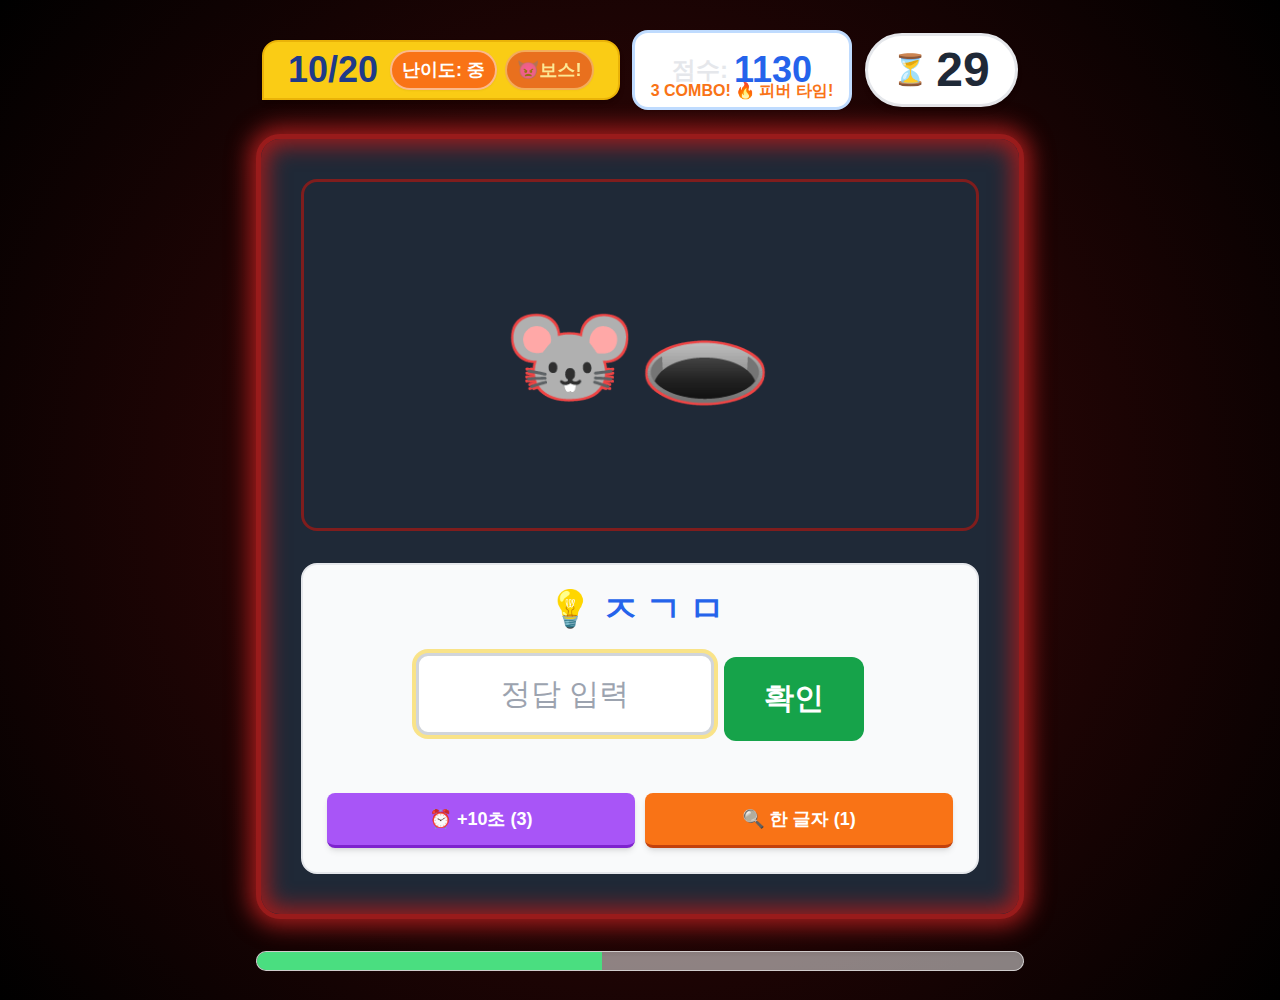
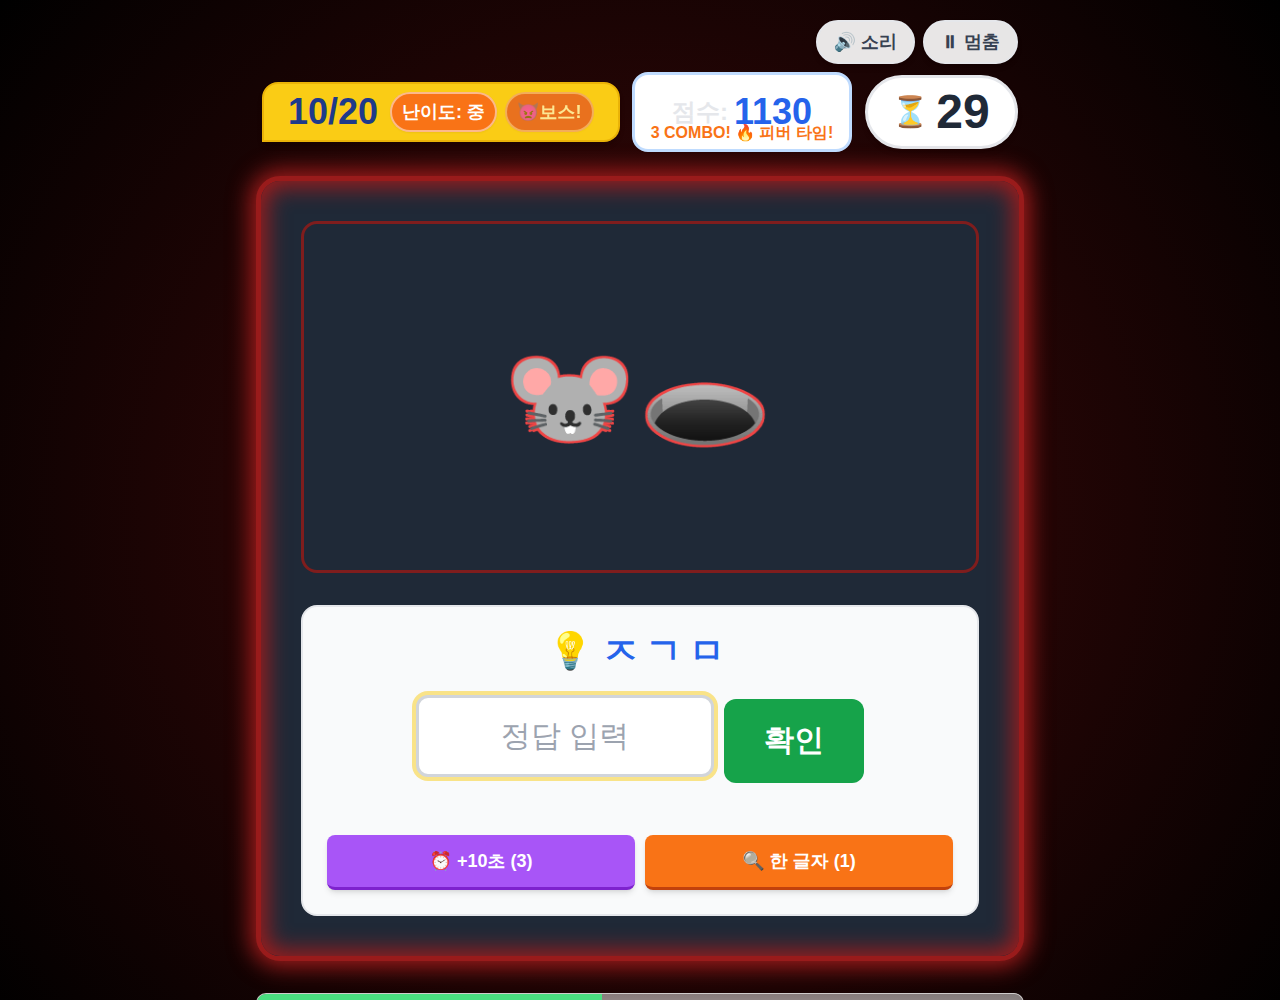
캐치 10: 일시정지와 소리 끄기 단추 추가
- 게임 화면 오른쪽 위에 ⏸ 멈춤 · 🔊 소리 단추
- 멈추면 시간이 서고 그림·힌트를 가림, 멈춘 동안 정답·아이템 입력 막음, 멈춘 시간은 문제 시간·소요시간에서 뺌
- Esc로 멈춤·계속, 멈춤 화면에서 Enter로 계속, 다른 창으로 가면 저절로 멈춤
- 소리 끄기는 다음에 열어도 기억
- 소개글·스크린샷·교실 TV 안내판을 새 단추에 맞춰 다시 만듦

Claude-Session: https://claude.ai/code/session_011cWCpwYSnSw2Evopy17yxA

Changed region(s): [[0.1875, 0.527, 0.8125, 1.0], [0.1875, 0.0, 0.8125, 0.217], [0.375, 0.31, 0.5938, 0.465]]

diff --git a/catch10.html b/catch10.html
@@ -203,6 +203,11 @@
 
     <!-- 게임 화면 -->
     <div id="game-screen" class="screen flex-col items-center w-full max-w-3xl">
+        <!-- ⏸ 일시정지 · 🔊 소리 -->
+        <div class="w-full flex justify-end gap-2 mb-2 px-1.5">
+            <button id="btn-sound" type="button" onclick="toggleSound()" title="소리 켜기·끄기" class="bg-white/90 hover:bg-white text-gray-700 text-base sm:text-lg font-bold px-3 sm:px-4 py-1.5 rounded-full shadow-md border-2 border-gray-200 active:translate-y-0.5 transition-all">🔊 소리</button>
+            <button id="btn-pause" type="button" onclick="togglePause()" title="일시정지 (Esc)" class="bg-white/90 hover:bg-white text-gray-700 text-base sm:text-lg font-bold px-3 sm:px-4 py-1.5 rounded-full shadow-md border-2 border-gray-200 active:translate-y-0.5 transition-all">⏸ 멈춤</button>
+        </div>
         
         <div class="w-full flex justify-between items-center mb-4 sm:mb-6 px-1.5 gap-1.5 sm:gap-3">
             <div id="top-badge-container" class="bg-yellow-400 text-blue-900 text-lg sm:text-2xl md:text-4xl px-3 sm:px-6 py-2 rounded-t-2xl rounded-br-2xl shadow-md border-2 border-yellow-500 flex flex-col sm:flex-row items-center justify-center flex-1 sm:flex-none transition-colors duration-300">
@@ -262,6 +267,17 @@
         
         <div class="w-full max-w-3xl mt-5 sm:mt-8 bg-white/50 rounded-full h-3 sm:h-5 shadow-inner overflow-hidden border border-white/60">
             <div id="progress-bar" class="bg-green-400 h-full w-0 transition-all duration-300"></div>
+        </div>
+    </div>
+
+    <!-- 일시정지 화면 -->
+    <div id="pause-overlay" class="hidden flex items-center justify-center p-5" style="position:fixed; inset:0; z-index:9999; background:rgba(17,24,39,0.96);">
+        <div class="bg-white rounded-3xl shadow-2xl p-8 sm:p-10 text-center border-[5px] border-blue-400 w-full max-w-md">
+            <div class="text-6xl sm:text-7xl mb-3">⏸</div>
+            <h2 class="text-3xl sm:text-4xl text-blue-600 font-bold mb-2">잠깐 멈춤</h2>
+            <p class="text-gray-500 text-base sm:text-lg mb-6">시간이 멈췄어요. 준비되면 계속해요!</p>
+            <button type="button" id="btn-resume" onclick="togglePause()" class="w-full bg-blue-500 hover:bg-blue-600 text-white text-2xl sm:text-3xl py-4 rounded-2xl shadow-[0_6px_0_#2563eb] hover:translate-y-1 transition-all font-bold mb-3">▶ 계속하기</button>
+            <button type="button" onclick="toggleSound()" id="btn-sound-pause" class="w-full bg-gray-100 hover:bg-gray-200 text-gray-700 text-lg sm:text-xl py-3 rounded-2xl border-2 border-gray-200 font-bold">🔊 소리 켜짐</button>
         </div>
     </div>
 
@@ -377,6 +393,11 @@
         let goldenCorrectCount = 0;
         let speedKillCount = 0;
 
+        let isPaused = false;
+        let pauseStartedAt = 0;
+        let isMuted = false;
+        try { isMuted = localStorage.getItem('catchmindMute10') === '1'; } catch(e) {}
+
         let bestScore = localStorage.getItem('catchmindBestScore10') || 0;
         document.getElementById('best-score-display').innerText = bestScore;
 
@@ -404,18 +425,22 @@
                 }
             },
             playCorrect: function() {
+                if(isMuted || !this.correct) return;
                 if(Tone.context.state !== 'running') Tone.context.resume();
                 this.correct.triggerAttackRelease(["C5", "E5", "G5", "C6"], "8n");
             },
             playWrong: function() {
+                if(isMuted || !this.correct) return;
                 if(Tone.context.state !== 'running') Tone.context.resume();
                 this.wrong.triggerAttackRelease("C3", "16n");
             },
             playTick: function() {
+                if(isMuted || !this.correct) return;
                 if(Tone.context.state !== 'running') Tone.context.resume();
                 this.tick.triggerAttackRelease("C2", "32n");
             },
             playBoss: function() {
+                if(isMuted || !this.correct) return;
                 if(Tone.context.state !== 'running') Tone.context.resume();
                 this.boss.triggerAttackRelease("C2", "1n");
             }
@@ -552,6 +577,9 @@
             document.getElementById('btn-item-hint').classList.remove('opacity-50', 'cursor-not-allowed');
 
             elements.achievementsContainer.innerHTML = ''; 
+            isPaused = false;
+            document.getElementById('pause-overlay').classList.add('hidden');
+            document.getElementById('btn-pause').innerText = '⏸ 멈춤';
 
             loadQuestion();
             showScreen('game');
@@ -634,6 +662,7 @@
         }
 
         function useTimeItem() {
+            if(isPaused) return;
             if(timeItemCount > 0) {
                 timeItemCount--;
                 timeLeft += 10;
@@ -651,6 +680,7 @@
         }
 
         function useHintItem() {
+            if(isPaused) return;
             if(hintItemCount > 0) {
                 const q = quizData[currentQuestionIndex];
                 let unrevealed = [];
@@ -677,7 +707,11 @@
             elements.timer.innerText = timeLeft;
             elements.timer.classList.remove('timer-warning');
             elements.gameContainer.classList.remove('tension-pulse'); 
+            startTicking();
+        }
 
+        function startTicking() {
+            clearInterval(timerInterval);
             timerInterval = setInterval(() => {
                 timeLeft--;
                 elements.timer.innerText = timeLeft;
@@ -700,6 +734,7 @@
 
         function submitAnswer(event) {
             event.preventDefault();
+            if(isPaused) return;
             if(elements.answerInput.value.trim() === '') return;
             
             const userAnswer = elements.answerInput.value.trim().replace(/\s/g, "");
@@ -851,6 +886,51 @@
             
             showScreen('result');
         }
+
+        /* ⏸ 일시정지: 문제를 푸는 화면에서만. 멈춘 시간은 문제 시간·소요시간에 넣지 않는다 */
+        function togglePause() {
+            if (!isPaused) {
+                if (!screens.game.classList.contains('active')) return;
+                isPaused = true;
+                pauseStartedAt = Date.now();
+                clearInterval(timerInterval);
+                elements.answerInput.blur();
+                document.getElementById('pause-overlay').classList.remove('hidden');
+                document.getElementById('btn-pause').innerText = '▶ 계속';
+                document.getElementById('btn-resume').focus();   // Enter를 누르면 바로 계속
+            } else {
+                isPaused = false;
+                const pausedMs = Date.now() - pauseStartedAt;
+                gameStartTime += pausedMs;
+                questionStartTime += pausedMs;
+                document.getElementById('pause-overlay').classList.add('hidden');
+                document.getElementById('btn-pause').innerText = '⏸ 멈춤';
+                if (screens.game.classList.contains('active') && timeLeft > 0) startTicking();
+                elements.answerInput.focus();
+            }
+        }
+
+        /* 🔊 소리 켜기·끄기 (다음에 열어도 기억한다) */
+        function syncSoundButtons() {
+            document.getElementById('btn-sound').innerText = isMuted ? '🔇 소리' : '🔊 소리';
+            document.getElementById('btn-sound').classList.toggle('opacity-60', isMuted);
+            document.getElementById('btn-sound-pause').innerText = isMuted ? '🔇 소리 꺼짐' : '🔊 소리 켜짐';
+        }
+        function toggleSound() {
+            isMuted = !isMuted;
+            try { localStorage.setItem('catchmindMute10', isMuted ? '1' : '0'); } catch(e) {}
+            syncSoundButtons();
+            if (!isPaused) elements.answerInput.focus();
+        }
+        syncSoundButtons();
+
+        document.addEventListener('keydown', (e) => {
+            if (e.key === 'Escape') { e.preventDefault(); togglePause(); }
+        });
+        /* 다른 창이나 탭으로 가면 저절로 멈춘다 */
+        document.addEventListener('visibilitychange', () => {
+            if (document.hidden && !isPaused && screens.game.classList.contains('active')) togglePause();
+        });
 
         function initGame() {
             document.body.className = 'min-h-[100dvh] w-full flex items-center justify-center p-3 sm:p-5 transition-all duration-500';

diff --git a/release/캐치 10/소개글.md b/release/캐치 10/소개글.md
@@ -17,14 +17,16 @@
 - 히든 업적 3가지가 있습니다: 🌟 황금 사냥꾼(황금 문제 3개 모두 정답), 🚫 노힌트 마스터(한 글자 아이템 없이 10개 이상 정답), ⚡ 스피드광(초고속 정답 5회).
 - 결과 화면에는 맞힌 문제, 정답률, 걸린 시간, 칭호(넌센스 마스터 · 센스쟁이 기대주 · 노력파 넌센서 · 넌센스 새싹), 달성한 업적, 최종 점수가 나옵니다. 최고 점수는 이 브라우저에 저장됩니다.
 - 정답을 맞히면 폭죽이 터지고, 효과음이 납니다. 배경음악은 없습니다.
+- 게임 중 언제든 **⏸ 멈춤**과 **🔊 소리** 단추를 누를 수 있습니다. 멈추면 시간이 서고 그림과 힌트가 가려집니다. 소리 설정은 다음에 열어도 기억합니다.
 
 🎮 조작 및 가이드
 
 - **① (선택) 초성 힌트 보기 켜기·끄기 → ② 게임 시작하기 → ③ 그림을 보고 정답 입력 → ④ 확인**
-- 키보드: 정답을 쓰고 Enter를 누르면 확인됩니다.
+- 키보드: 정답을 쓰고 Enter를 누르면 확인됩니다. Esc를 누르면 멈추고, 멈춤 화면에서 Enter를 누르면 계속합니다.
 - 마우스·터치: 입력칸을 눌러 정답을 쓰고 "확인"을 누릅니다. 아이템은 ⏰ +10초, 🔍 한 글자 단추를 누릅니다.
 - 틀리면 "오답입니다! 다시 시도해 보세요."가 나오고, 시간이 남아 있으면 계속 다시 입력할 수 있습니다.
 - 시간이 다 되면 정답을 보여 주고 "다음 문제 👉"로 넘어갑니다.
+- 화면 오른쪽 위 ⏸ 멈춤 단추로 멈추고, ▶ 계속하기로 이어 합니다. 다른 창이나 탭으로 가면 저절로 멈춥니다.
 - 마지막 결과 화면에서 "다시 하기 🔄"를 누르면 처음 화면으로 돌아갑니다.
 - PC(키보드·마우스), 태블릿, 휴대폰(터치)을 지원합니다.
 
@@ -74,7 +76,8 @@
 - 🌟 황금 문제는 15초뿐이니 빠르게 풀고, 막히면 ⏰ +10초를 씁니다.
 - 🔍 한 글자 아이템을 쓰면 노힌트 마스터 업적을 받을 수 없습니다. 아껴 두었다가 보스 문제에 쓰는 것이 좋습니다.
 - 3번 연속으로 맞혀 피버 타임을 이어 가면 점수가 크게 오릅니다.
-- 학교 PC에서 소리가 방해되면 컴퓨터 소리를 줄입니다(게임 안에 소리 끄기 단추는 없습니다).
+- 교실에서 소리가 방해되면 오른쪽 위 🔊 소리 단추로 끕니다.
+- 수업 중 잠깐 멈출 때는 ⏸ 멈춤(Esc)을 누릅니다. 멈춘 시간은 문제 시간과 소요시간에 들어가지 않습니다.
 
 ================================================================
 
